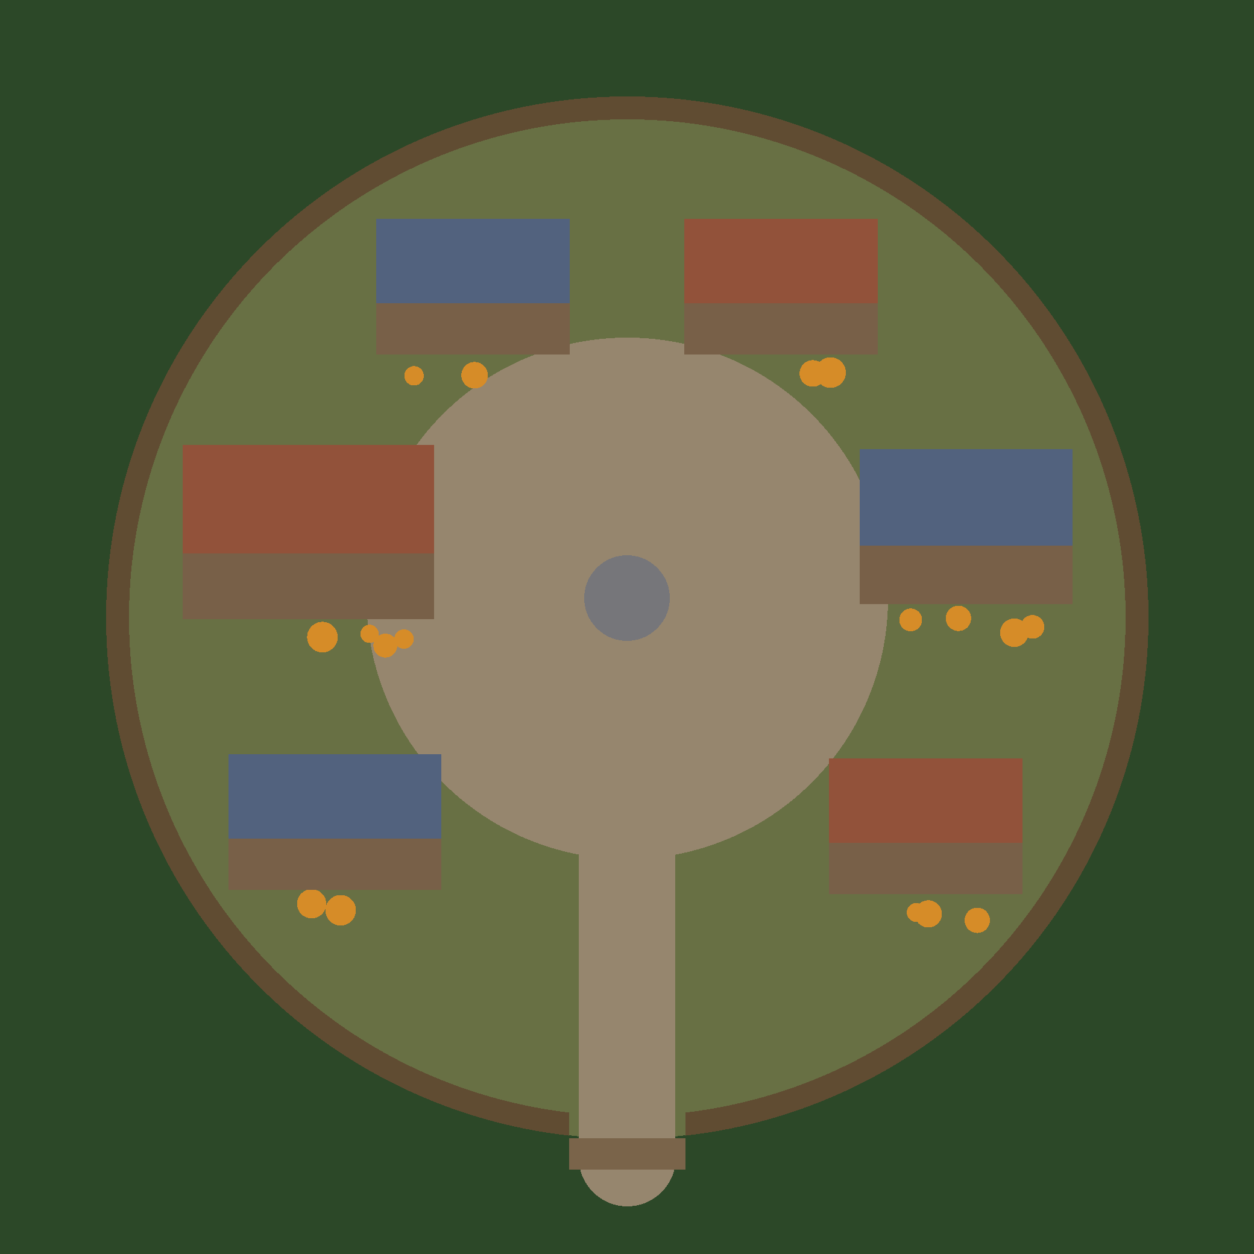
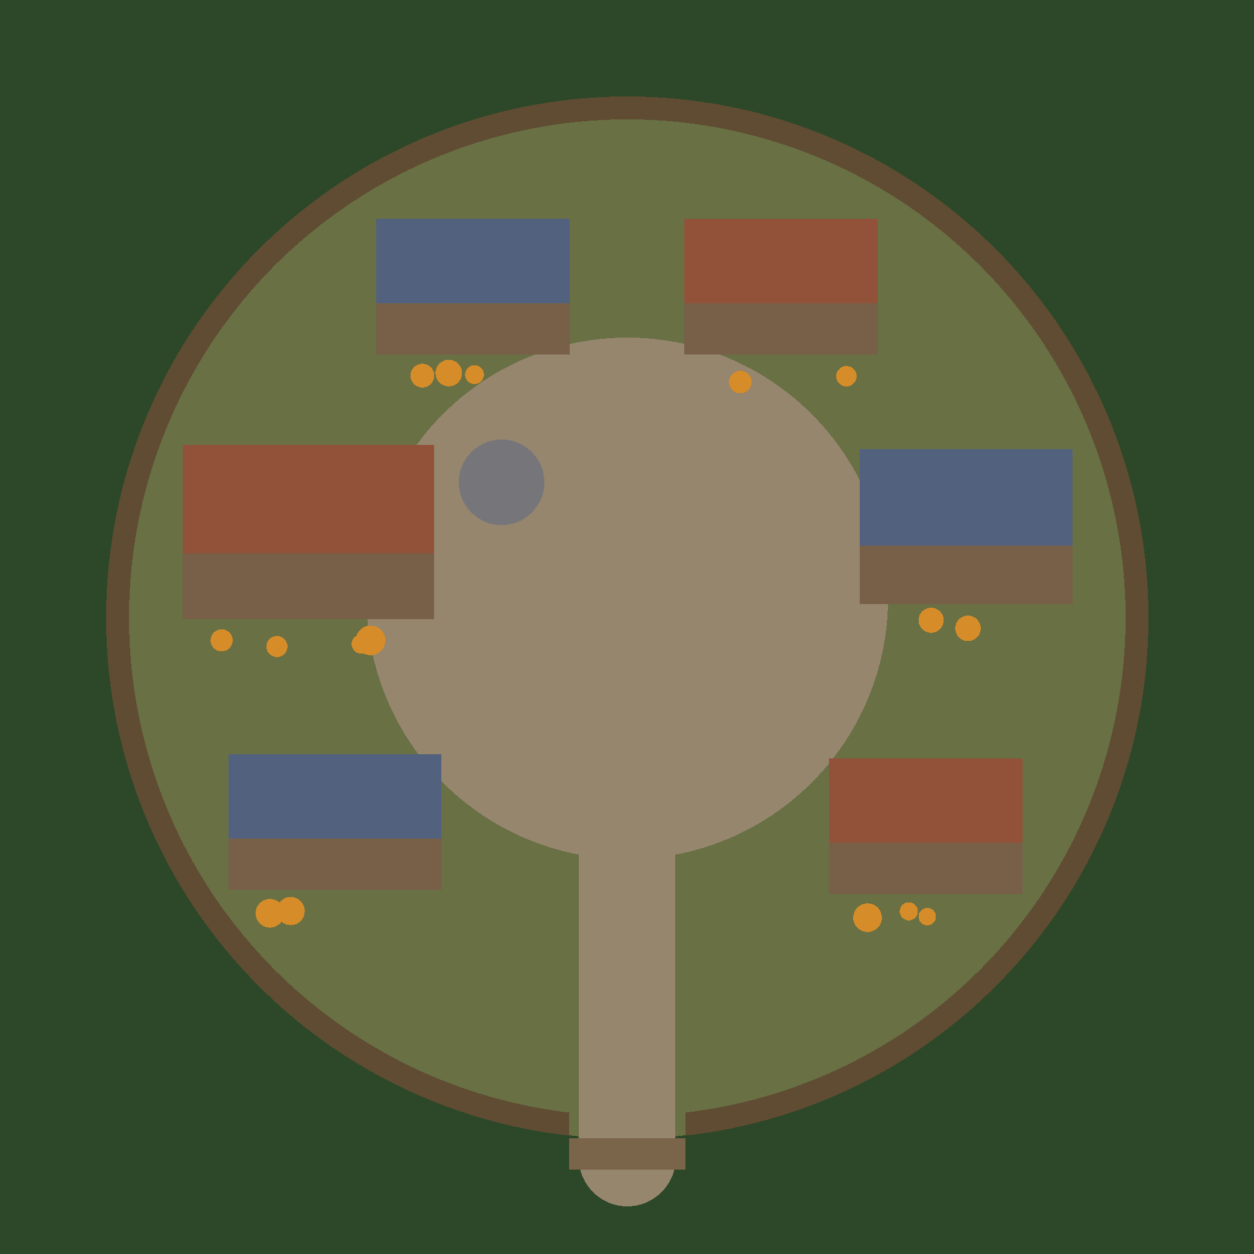
fix: a well drawn twice, and woodland drawn as a flat field
Two defects visible in the v3 plates, both fixed at the cause rather than in
the picture.

THE WELL WAS ON THE TILE SEAM. The plate is quilted from four 975 px tiles,
so the seams land at art px 975 in BOTH axes -- cell 32.5 exactly -- and
every town's well was authored at cx = 32.5, straddling the vertical cut.
greenhollow's came back drawn TWICE, each neighbouring tile having seen half
a well in its own crop and completed it. millbrook and portSapphire survived
the identical placement by luck, which is worse than failing: it hides the
fault until the next re-bake. A building is safe there because the graft
band carries it; a small round object centred on the cut is not. check() now
refuses any point feature within a well-radius-plus-margin of either seam,
and all three wells moved clear.

WOODLAND CAME BACK AS A FLAT FIELD. millbrook tile (0,1) drew everything
outside the palisade as one untextured dark expanse with no tree in it. The
layout score cannot catch this and never will -- a flat fill correlates
perfectly with the flat plan colour it was drawn from, so it scored in band.
The brief said "dark-green WOODLAND, outside the palisade" and was answered
literally. It now asks for individual rounded treetops with their own
highlight and shadow, packed edge to edge, and says outright that a plain
dark green area means the tile is wrong.

diff --git a/scripts/town_layout.py b/scripts/town_layout.py
@@ -192,7 +192,7 @@ def spec_greenhollow() -> dict:
         "lanes": [
             ((cx, 60.0), (cx, 33.0), 5.0),
         ],
-        "well": (cx, 31.0, 2.2),
+        "well": (26.0, 25.0, 2.2),
         # SEATED BY BEARING, not typed as coordinates -- see _seat(). Greenhollow is the bigger
         # village and reads as a ring of cottages facing a wide common, hall due north.
         "buildings": [
@@ -236,7 +236,7 @@ def spec_millbrook() -> dict:
         "lanes": [
             ((cx, 60.0), (cx, 39.0), 5.0),
         ],
-        "well": (cx, 38.0, 2.2),
+        "well": (27.0, 40.0, 2.2),
         # Fewer and larger than greenhollow, and deliberately NOT the same bearings -- owner,
         # 2026-08-21: "we can have the general shape and container of the town but move the
         # houses/shops around depending on the town."
@@ -301,7 +301,7 @@ def spec_portSapphire() -> dict:
             (31.0, shore - 1.0, 3.0, 13.0),
             (41.0, shore - 1.0, 3.0, 10.0),
         ],
-        "well": (cx, 28.0, 2.2),
+        "well": (27.0, 24.0, 2.2),
         # Seated north of the shoreline so nothing stands in the water. Bearings deliberately differ
         # from both villages: a port crowds its buildings around the head of the harbour.
         # FOUR ON THE ARC, TWO ON THE QUAY. Six would not fit around the northern half alone -- at
@@ -620,6 +620,21 @@ def check(spec: dict, body: np.ndarray, walk: dict) -> list[str]:
         if far > rgc["r"]:
             problems.append(f"building {b['id']} reaches {far:.2f} cells from the centre, "
                             f"outside the palisade at r={rgc['r']}")
+    # NO POINT FEATURE MAY SIT ON A TILE SEAM. The plate is quilted from four 975 px tiles, so the
+    # seams fall at art px 975 in both axes -- cell 32.5 exactly. Every town's well was authored at
+    # cx = 32.5, i.e. straddling the vertical seam, and greenhollow's came back DRAWN TWICE: each
+    # neighbouring tile saw half a well in its own crop and completed it. millbrook and portSapphire
+    # survived the same placement by luck, which is worse than failing, because it hides the fault
+    # until a re-bake.
+    #
+    # A building is safe because it is large and the graft band carries it; a small round object
+    # centred on the cut is not. Keep point features a clear well-radius plus margin off both seams.
+    seam = CELLS / 2.0
+    wx, wy, wr = spec["well"]
+    need = wr + 2.0
+    if abs(wx - seam) < need or abs(wy - seam) < need:
+        problems.append(f"the well at ({wx}, {wy}) is within {need:.1f} cells of the tile seam at "
+                        f"{seam} -- it will be drawn twice, once by each neighbouring tile")
     # NO TWO BUILDINGS MAY COME WITHIN MIN_GAP CELLS OF EACH OTHER, which is a STRICTER rule than
     # the non-overlap one below and replaces it in practice. Owner, 2026-08-21: "one of the houses in
     # green hollow looks like it is attached to another house." They were right and the overlap guard

diff --git a/scripts/town_bake.py b/scripts/town_bake.py
@@ -93,7 +93,14 @@ PLAN = {
     "clutter": (214, 140, 40),
 }
 HUMAN = {
-    "woodland": "dark-green WOODLAND, outside the palisade",
+    # "dark-green WOODLAND" alone was answered LITERALLY on millbrook tile (0,1), 2026-08-21: the
+    # whole area outside the palisade came back as one flat untextured dark field, not a single tree
+    # in it. The layout score cannot catch that -- a flat fill correlates perfectly with the flat
+    # plan colour it was drawn from -- so the brief has to ask for the trees in as many words.
+    "woodland": ("DENSE FOREST CANOPY outside the palisade: individual rounded treetops drawn one by "
+                 "one, each with its own highlight and cast shadow, packed edge to edge so no two "
+                 "are identical. It must never be a flat field of colour -- if this area reads as "
+                 "plain dark green with no trees in it, the tile is wrong"),
     "grass": "mid-green GRASS, inside the palisade",
     "paving": "pale PACKED-EARTH STREET AND YARD, the ground the player walks on",
     "facade": "brown BUILDING FACADE, the lower band of a building block",
